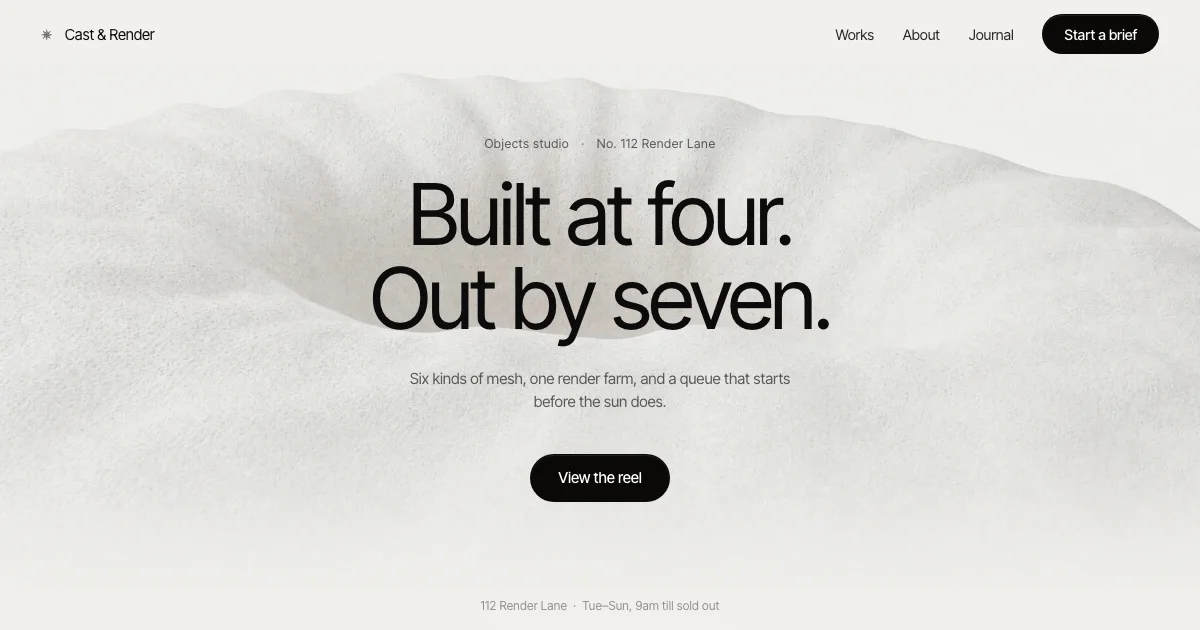
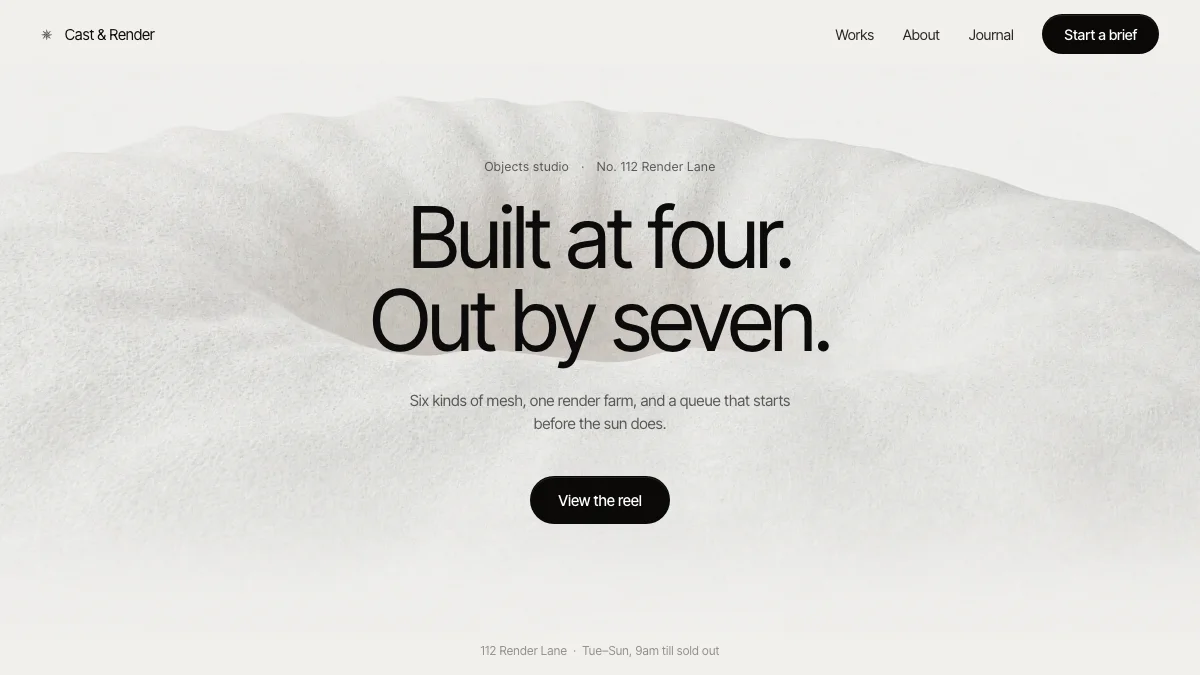
style: Enforce strict 16:9 aspect ratio on all theme thumbnails across all pages & add 10s delay thumbnail generator

diff --git a/scripts/regenerate_all_thumbnails.ts b/scripts/regenerate_all_thumbnails.ts
@@ -1,0 +1,183 @@
+#!/usr/bin/env node
+/**
+ * 16:9 Thumbnail Regeneration Script with 10-Second Load Delay
+ * 
+ * - Enforces 16:9 aspect ratio screenshots (1200 x 675px)
+ * - Waits 10 seconds (10,000ms) after page load before taking screenshot
+ * - Unhides preloader overlays, triggers scroll events to force lazy images/fonts
+ * - Saves high-quality WebP images to public/themes/<slug>.webp
+ */
+
+import { spawn } from 'node:child_process';
+import { mkdirSync, mkdtempSync, rmSync, writeFileSync, existsSync } from 'node:fs';
+import os from 'node:os';
+import path from 'node:path';
+
+import { themes } from '../src/data/themes';
+import { cleanSlugFor } from '../src/data/design';
+
+const WIDTH = 1200;
+const HEIGHT = 675; // 1200 / 675 = 16:9 Aspect Ratio
+const LOAD_DELAY_MS = 10000; // 10 seconds delay after page load as requested
+const CHROME_PATH = '/Applications/Google Chrome.app/Contents/MacOS/Google Chrome';
+const PUBLIC_THEMES_DIR = path.resolve('public/themes');
+
+mkdirSync(PUBLIC_THEMES_DIR, { recursive: true });
+
+async function captureThumbnail(slug, liveUrl) {
+  const outputPath = path.join(PUBLIC_THEMES_DIR, `${slug}.webp`);
+  const profile = mkdtempSync(path.join(os.tmpdir(), 'thumb-reg-'));
+
+  const child = spawn(CHROME_PATH, [
+    '--headless=new',
+    '--disable-background-networking',
+    '--disable-component-update',
+    '--disable-gpu',
+    '--hide-scrollbars',
+    '--no-default-browser-check',
+    '--no-first-run',
+    '--remote-debugging-port=0',
+    `--user-data-dir=${profile}`,
+    'about:blank',
+  ], { stdio: ['ignore', 'ignore', 'pipe'] });
+
+  let stderr = '';
+  try {
+    const browserSocket = await new Promise((resolve, reject) => {
+      const timer = setTimeout(() => reject(new Error(`Chrome DevTools endpoint timed out`)), 10_000);
+      child.stderr.setEncoding('utf8');
+      child.stderr.on('data', (chunk) => {
+        stderr += chunk;
+        const match = stderr.match(/DevTools listening on (ws:\/\/[^\s]+)/);
+        if (match) {
+          clearTimeout(timer);
+          resolve(match[1]);
+        }
+      });
+      child.once('error', reject);
+      child.once('exit', (code) => reject(new Error(`Chrome exited prematurely (${code})`)));
+    });
+
+    const port = new URL(browserSocket).port;
+    let targets = [];
+    for (let attempt = 0; attempt < 20; attempt += 1) {
+      targets = await fetch(`http://127.0.0.1:${port}/json/list`).then((response) => response.json());
+      if (targets.some((target) => target.type === 'page')) break;
+      await new Promise((resolve) => setTimeout(resolve, 50));
+    }
+    const page = targets.find((target) => target.type === 'page');
+    if (!page) throw new Error('Chrome did not expose a page target.');
+
+    const socket = new WebSocket(page.webSocketDebuggerUrl);
+    await new Promise((resolve, reject) => {
+      socket.addEventListener('open', resolve, { once: true });
+      socket.addEventListener('error', reject, { once: true });
+    });
+
+    let nextId = 0;
+    const pending = new Map();
+    socket.addEventListener('message', ({ data }) => {
+      const message = JSON.parse(data);
+      if (message.id && pending.has(message.id)) {
+        const { resolve, reject } = pending.get(message.id);
+        pending.delete(message.id);
+        return message.error ? reject(new Error(JSON.stringify(message.error))) : resolve(message.result);
+      }
+    });
+
+    function command(method, params = {}) {
+      const id = ++nextId;
+      socket.send(JSON.stringify({ id, method, params }));
+      return new Promise((resolve, reject) => pending.set(id, { resolve, reject }));
+    }
+
+    await command('Page.enable');
+    await command('Runtime.enable');
+    await command('Emulation.setDeviceMetricsOverride', {
+      width: WIDTH,
+      height: HEIGHT,
+      deviceScaleFactor: 1,
+      mobile: false,
+      screenWidth: WIDTH,
+      screenHeight: HEIGHT,
+    });
+
+    console.log(`[Navigating] ${slug} -> ${liveUrl}`);
+    await command('Page.navigate', { url: liveUrl });
+
+    // Wait 10 seconds for page, JS animations, fonts, and images to settle completely
+    console.log(`[Waiting 10 seconds] For ${slug} assets & animations to render accurately...`);
+    await new Promise((resolve) => setTimeout(resolve, LOAD_DELAY_MS));
+
+    // Force hide preloaders and trigger scroll/resizes to ensure hero section is visible
+    await command('Runtime.evaluate', {
+      expression: `(() => {
+        try {
+          const loaders = document.querySelectorAll('.preloader, .loader, #preloader, #loader, [class*="preloader"], [class*="loading"], [id*="preloader"]');
+          loaders.forEach(el => { el.style.display = 'none'; el.style.opacity = '0'; });
+
+          window.scrollTo(0, 100);
+          window.scrollTo(0, 0);
+          window.dispatchEvent(new Event('scroll'));
+          window.dispatchEvent(new Event('resize'));
+
+          const heroEls = document.querySelectorAll('header *, section *, main *, .hero *');
+          heroEls.forEach(el => {
+            const style = window.getComputedStyle(el);
+            if (style.opacity === '0') el.style.opacity = '1';
+            if (style.visibility === 'hidden') el.style.visibility = 'visible';
+          });
+        } catch (e) {}
+      })()`,
+      awaitPromise: true
+    });
+
+    await new Promise((resolve) => setTimeout(resolve, 1000));
+
+    const capture = await command('Page.captureScreenshot', { 
+      format: 'webp', 
+      quality: 85, 
+      fromSurface: true,
+      clip: {
+        x: 0,
+        y: 0,
+        width: WIDTH,
+        height: HEIGHT,
+        scale: 1
+      }
+    });
+
+    writeFileSync(outputPath, Buffer.from(capture.data, 'base64'));
+    console.log(`[Saved 16:9 Thumbnail] ✅ ${slug}.webp (${WIDTH}x${HEIGHT})`);
+    socket.close();
+    return true;
+  } catch (err) {
+    console.error(`[Error] Failed to capture ${slug}:`, err.message);
+    return false;
+  } finally {
+    child.kill('SIGTERM');
+    try {
+      rmSync(profile, { recursive: true, force: true, maxRetries: 3, retryDelay: 200 });
+    } catch (e) {}
+  }
+}
+
+async function main() {
+  console.log(`🚀 Starting 16:9 Thumbnail Regeneration (${WIDTH}x${HEIGHT}) with ${LOAD_DELAY_MS/1000}s Delay`);
+  console.log(`Total themes to process: ${themes.length}\n`);
+
+  let count = 0;
+  for (const theme of themes) {
+    count++;
+    const slug = theme.slug;
+    const cleanSub = cleanSlugFor(theme);
+    const liveUrl = theme.liveUrl || `https://${cleanSub}.komalnakrani.com`;
+    
+    console.log(`\n--- Processing [${count}/${themes.length}]: ${slug} ---`);
+    await captureThumbnail(slug, liveUrl);
+  }
+
+  console.log(`\n🎉 Completed 16:9 Thumbnail Regeneration for all themes!`);
+}
+
+main().catch(console.error);
